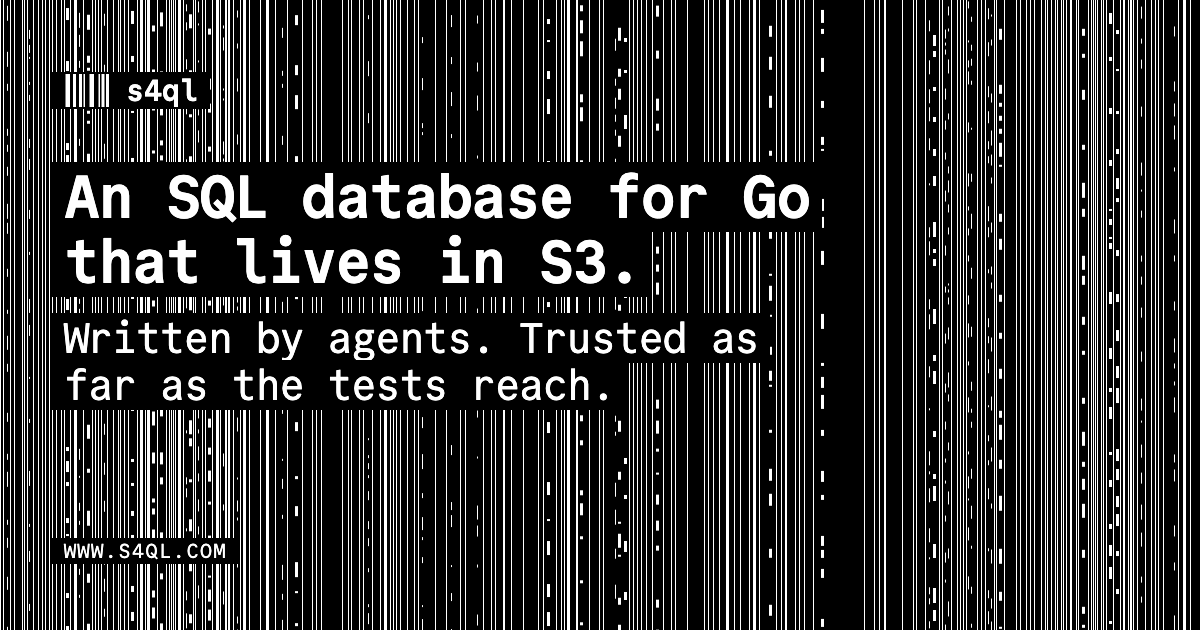
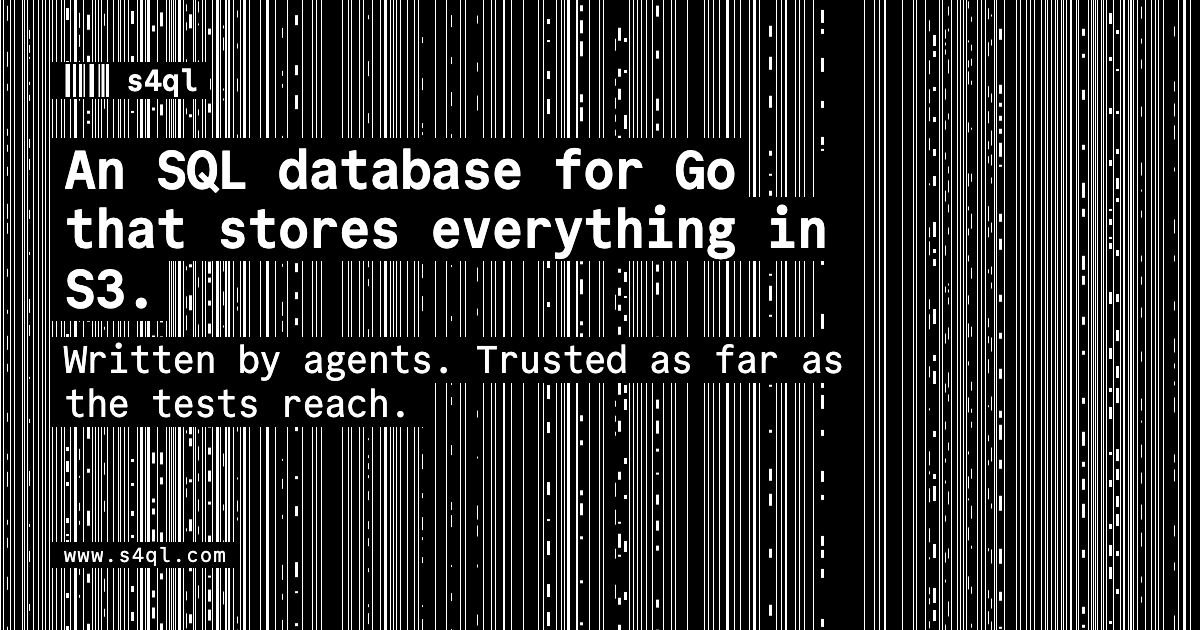
Rework the site's first box and copy, and add the projects s4ql is inspired by
The box at the top now shows what Markus finds interesting about s4ql: S3 as the only infrastructure, one writer per database with unlimited databases, the SQLite dialect, and that agents write it and tests check it. The headline no longer says the database "lives" in S3, and a few other metaphors in the copy are now plain statements. A new section lists SQLite, FoundationDB, Graft, SlateDB, Turbopuffer, and Litestream, and links to `docs/inspiration.md`.

Changed region(s): [[0.0308, 0.2111, 0.7092, 0.6937], [0.0308, 0.0905, 0.185, 0.181], [0.0308, 0.8444, 0.185, 0.9048]]

diff --git a/site/index.html b/site/index.html
@@ -3,7 +3,7 @@
 <head>
 <meta charset="utf-8">
 <meta name="viewport" content="width=device-width, initial-scale=1">
-<title>s4ql: an SQL database for Go that lives in S3</title>
+<title>s4ql: an SQL database for Go that stores everything in S3</title>
 <meta name="description" content="s4ql is an embedded SQL database engine for Go that keeps all its data in S3. It is written and owned by AI agents, and trusted only as far as its tests reach.">
 <meta name="theme-color" content="#000000">
 <link rel="canonical" href="https://www.s4ql.com/">
@@ -12,13 +12,13 @@
 <meta property="og:type" content="website">
 <meta property="og:site_name" content="s4ql">
 <meta property="og:url" content="https://www.s4ql.com/">
-<meta property="og:title" content="s4ql: an SQL database for Go that lives in S3">
+<meta property="og:title" content="s4ql: an SQL database for Go that stores everything in S3">
 <meta property="og:description" content="An embedded SQL database engine for Go that keeps all its data in S3. Written and owned by AI agents, and trusted only as far as its tests reach.">
 <meta property="og:image" content="https://www.s4ql.com/og.png">
 <meta property="og:image:type" content="image/png">
 <meta property="og:image:width" content="1200">
 <meta property="og:image:height" content="630">
-<meta property="og:image:alt" content="s4ql. An SQL database for Go that lives in S3. Written by agents. Trusted as far as the tests reach. White text on a field of black and white bars.">
+<meta property="og:image:alt" content="s4ql. An SQL database for Go that stores everything in S3. Written by agents. Trusted as far as the tests reach. White text on a field of black and white bars.">
 <meta name="twitter:card" content="summary_large_image">
 <link rel="preload" href="fonts/commit-mono-400.otf" as="font" type="font/otf" crossorigin>
 <style>
@@ -242,7 +242,7 @@ a:hover { text-decoration-thickness: 3px; }
 }
 .state li { background: var(--void); }
 h1 {
-  font-size: clamp(32px, 4.3vw, 64px);
+  font-size: clamp(32px, 3.9vw, 58px);
   line-height: 1.06;
   letter-spacing: -0.035em;
   font-weight: 700;
@@ -683,6 +683,7 @@ footer ul {
         <li class="sec"><a href="#process">Process</a></li>
         <li class="sec"><a href="#status">Status</a></li>
         <li class="sec"><a href="#roadmap">Roadmap</a></li>
+        <li class="sec"><a href="#inspiration">Inspiration</a></li>
         <li><a href="https://github.com/maragudk/s4ql">GitHub</a></li>
       </ul>
     </nav>
@@ -696,11 +697,11 @@ footer ul {
   <div class="wrap">
     <div class="claim">
       <h1 id="claim">
-        <span><span class="ko">An SQL database for Go that lives in S3.</span></span>
+        <span><span class="ko">An SQL database for Go that stores everything in S3.</span></span>
         <span class="process"><span class="ko">Written by agents. Trusted as far as the tests reach.</span></span>
       </h1>
       <div class="claim-body">
-      <p class="lede">s4ql is an embedded database engine in the spirit of SQLite that keeps all its data in an S3 bucket, with no server to run. Every line of it is written by AI agents, and no human reviews the code. Trust has to come from verification.</p>
+      <p class="lede">s4ql is an embedded database engine in the spirit of SQLite. Your Go application talks to the bucket directly, and there is no server to run. Every line of it is written by AI agents, and no human reviews the code. Trust has to come from verification.</p>
       <div class="actions">
         <a class="btn" href="https://github.com/maragudk/s4ql">Follow on GitHub <span class="bars" aria-hidden="true"></span></a>
         <a href="https://github.com/maragudk/s4ql/blob/main/docs/spec.md">Read the spec</a>
@@ -805,7 +806,7 @@ footer ul {
   <div class="wrap">
     <div class="block-head">
       <h2 id="process-h">How it is built</h2>
-      <p>Agents write the code, and the tests decide what is true. The production code runs unchanged inside a simulation where S3, time, and randomness are driven by one seed. The same seed always replays the same run, failures included.</p>
+      <p>Agents write the code and nobody reviews it, so the tests have to show that it works. The production code runs unchanged inside a simulation where S3, time, and randomness are driven by one seed. The same seed always replays the same run, failures included.</p>
     </div>
 
     <div class="replay">
@@ -821,9 +822,9 @@ footer ul {
     </div>
 
     <dl class="sheet">
-      <div><dt class="caps">Deterministic simulation</dt><dd>S3, clocks, and randomness sit behind interfaces. One seed drives a whole run, so any failure the simulation finds can be replayed exactly.</dd></div>
+      <div><dt class="caps">Deterministic simulation</dt><dd>S3, clocks, and randomness are reached only through interfaces. One seed controls a whole run, so any failure the simulation finds can be replayed exactly.</dd></div>
       <div><dt class="caps">Buggify</dt><dd>Marked points in the production code do something legal but unusual in simulation: return an error, add a delay, take a rare branch. Each run switches on a different subset.</dd></div>
-      <div><dt class="caps">SQLite is the oracle</dt><dd>s4ql writes its own parser and engine, and SQLite judges them. Results and errors are compared with SQLite's, and the parser is checked against SQLite's own test statements.</dd></div>
+      <div><dt class="caps">SQLite is the oracle</dt><dd>s4ql writes its own parser and engine, and checks them against SQLite. Results and errors are compared with SQLite's, and the parser is run on SQLite's own test statements.</dd></div>
       <div><dt class="caps">Real S3</dt><dd>A conformance suite and integration tests run against a real S3-compatible bucket on Tigris, to check that the simulated store behaves like the real one.</dd></div>
       <div><dt class="caps">Tests that test the tests</dt><dd>Property-based tests, fuzzing, and mutation testing. Bugs are planted on purpose to count how many seeds the simulation needs to find each one.</dd></div>
       <div><dt class="caps">Everything written down</dt><dd>The <a href="https://github.com/maragudk/s4ql/blob/main/docs/spec.md">spec</a>, the <a href="https://github.com/maragudk/s4ql/tree/main/docs/research">research</a>, the builders' diaries, and the <a href="https://github.com/maragudk/s4ql/tree/main/docs/conversations">conversations</a> behind each decision are in the repository.</dd></div>
@@ -916,6 +917,23 @@ footer ul {
         <span class="where caps">Open</span>
       </li>
     </ol>
+  </div>
+</section>
+
+<section class="block" id="inspiration" aria-labelledby="inspiration-h">
+  <div class="wrap">
+    <div class="block-head">
+      <h2 id="inspiration-h">Inspired by</h2>
+      <p>s4ql builds on ideas from other databases and storage engines. How each idea works in its own project is written up in <a href="https://github.com/maragudk/s4ql/blob/main/docs/inspiration.md">docs/inspiration.md</a>.</p>
+    </div>
+    <dl class="sheet">
+      <div><dt class="caps"><a href="https://sqlite.org/">SQLite</a></dt><dd>The embedded database s4ql is modelled on. s4ql speaks a subset of its SQL, checks its own answers against it, and uses it for the local cache.</dd></div>
+      <div><dt class="caps"><a href="https://www.foundationdb.org/">FoundationDB</a></dt><dd>A distributed, transactional key-value store, tested in deterministic simulation. s4ql's simulation and its buggify points follow its example, and so does the rule that an application checks its own data after an unknown commit outcome.</dd></div>
+      <div><dt class="caps"><a href="https://graft.rs/">Graft</a></dt><dd>A storage engine in Rust that replicates SQLite pages to object storage as an append-only log of commits, with no server in between.</dd></div>
+      <div><dt class="caps"><a href="https://slatedb.io/">SlateDB</a></dt><dd>An embedded key-value store in Rust that keeps all its files in object storage, with a manifest that lists the current state of the database.</dd></div>
+      <div><dt class="caps"><a href="https://turbopuffer.com/">Turbopuffer</a></dt><dd>A search service where object storage is the only source of truth and each namespace is a prefix in the bucket, with caches in memory and on disk in front of it.</dd></div>
+      <div><dt class="caps"><a href="https://litestream.io/">Litestream</a></dt><dd>A tool in Go that replicates a SQLite database to object storage from its write-ahead log, and a SQLite plugin that queries the copy in object storage directly.</dd></div>
+    </dl>
   </div>
 </section>
 
